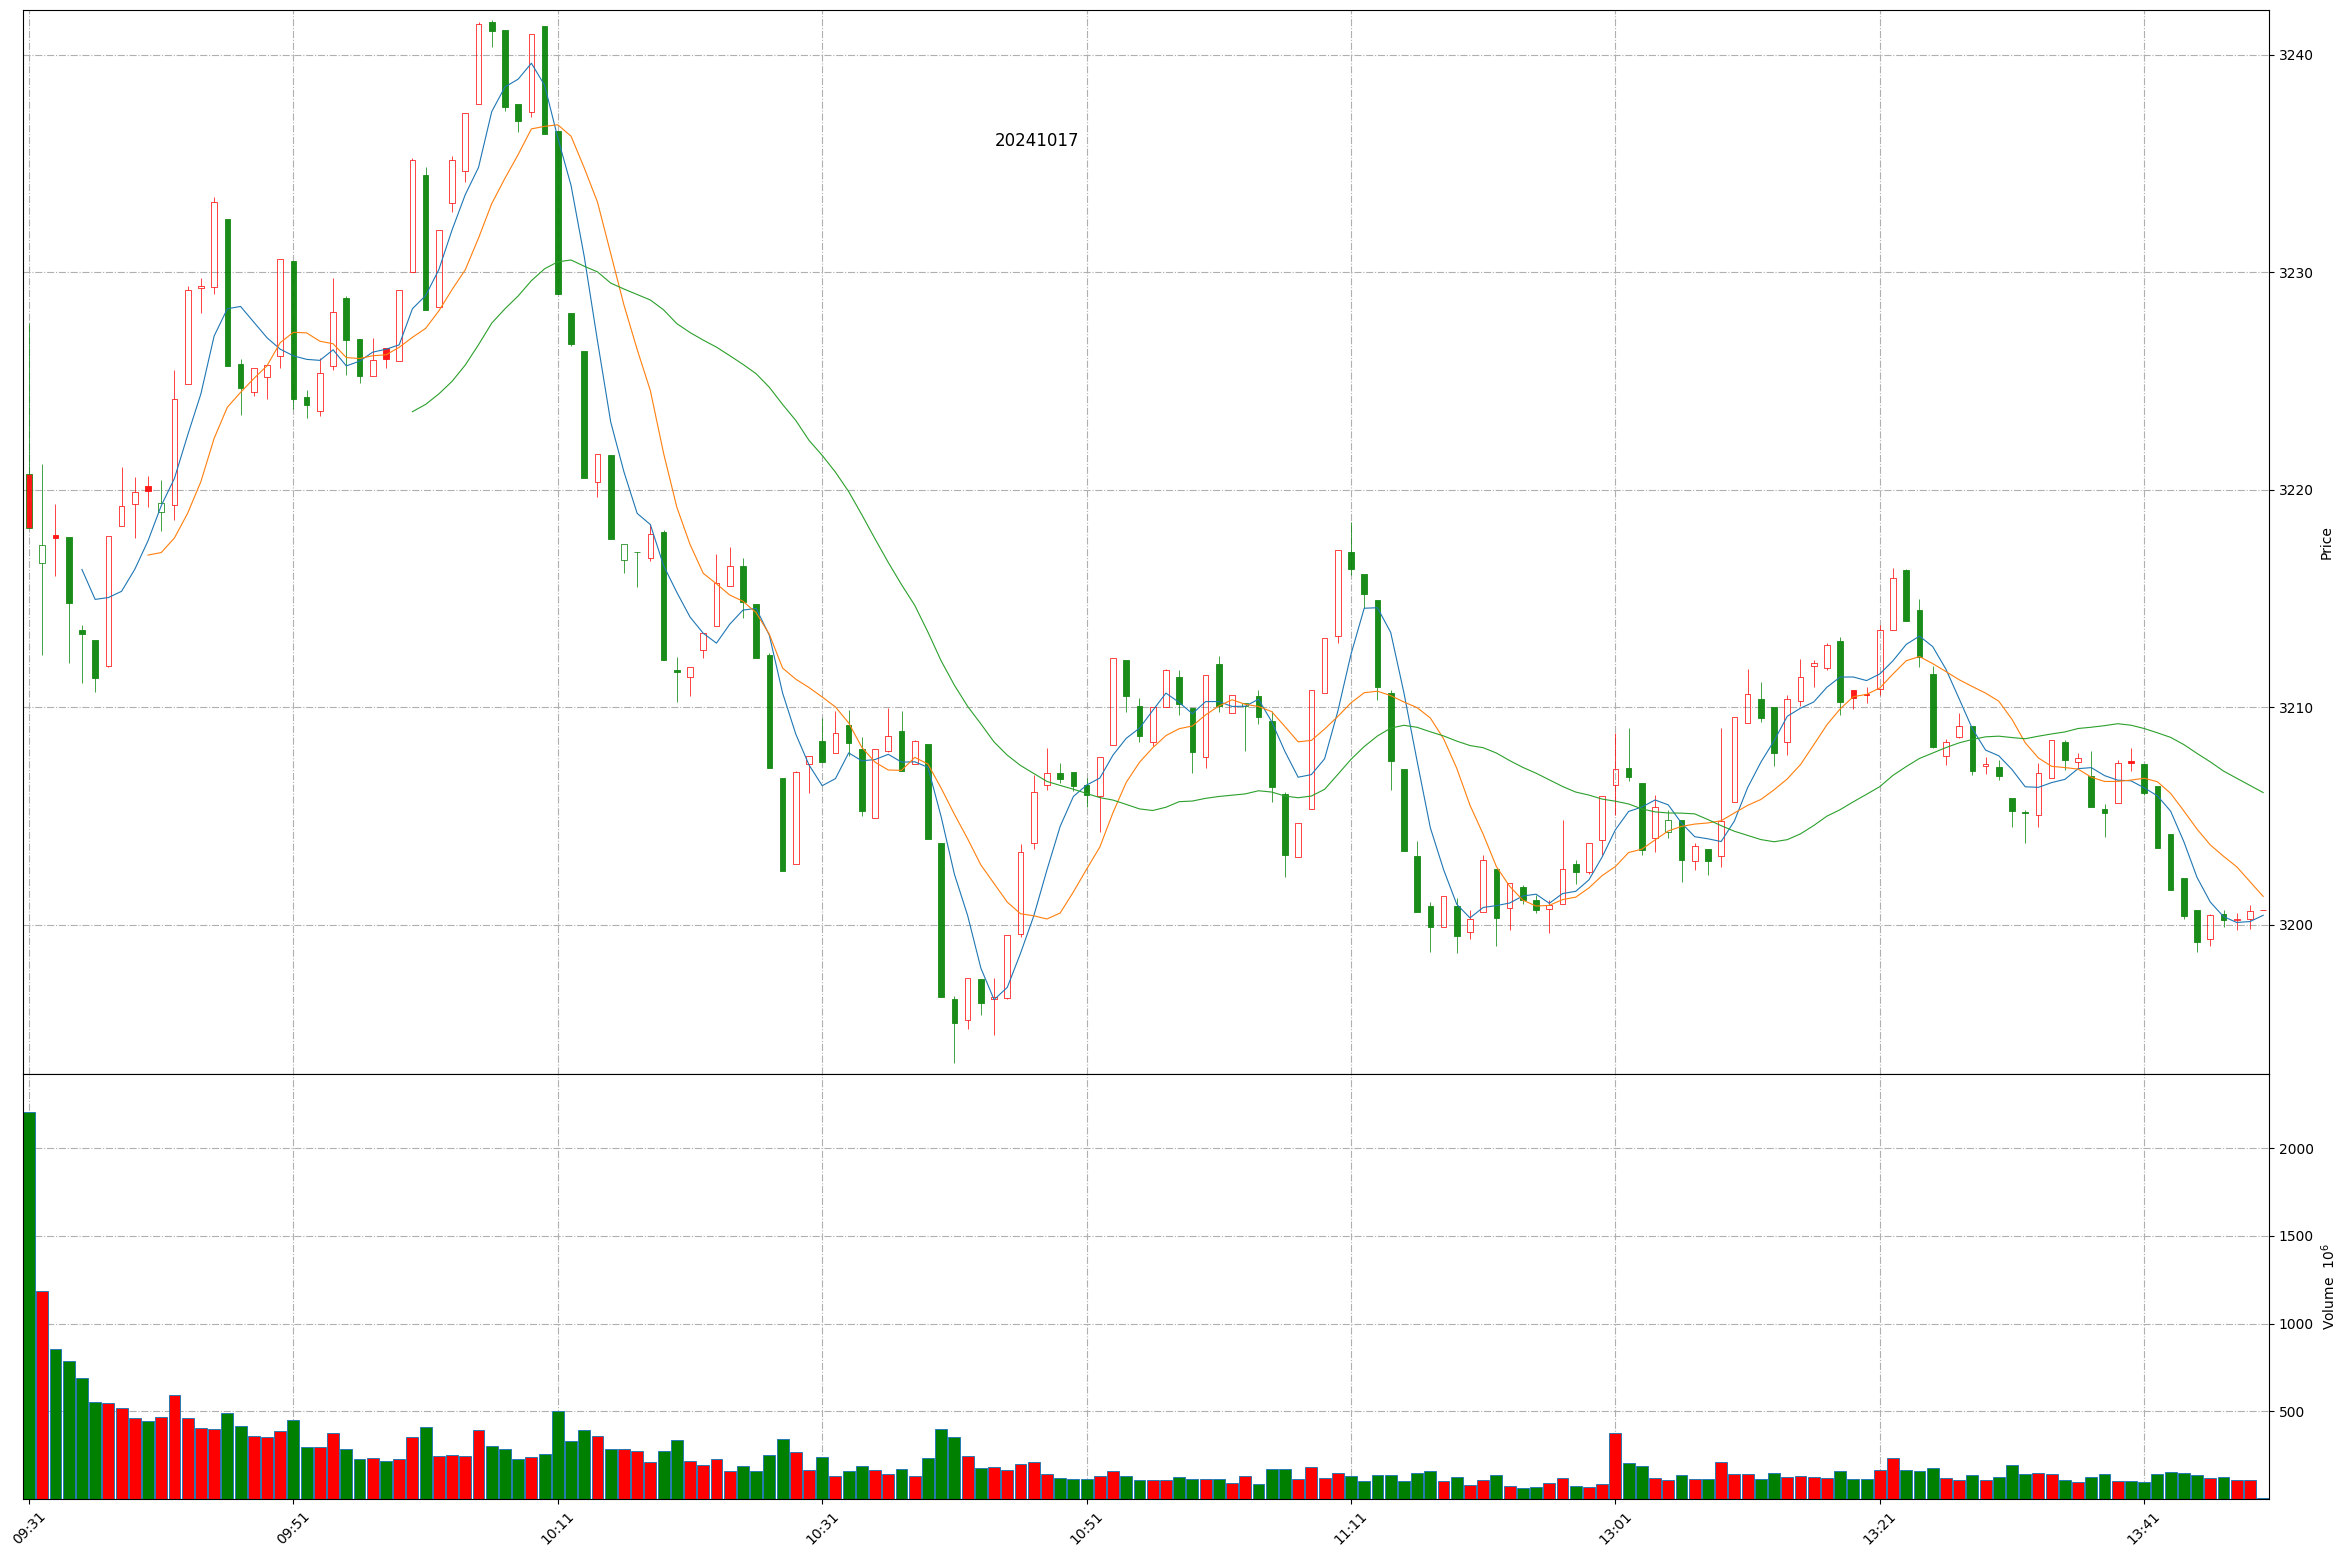
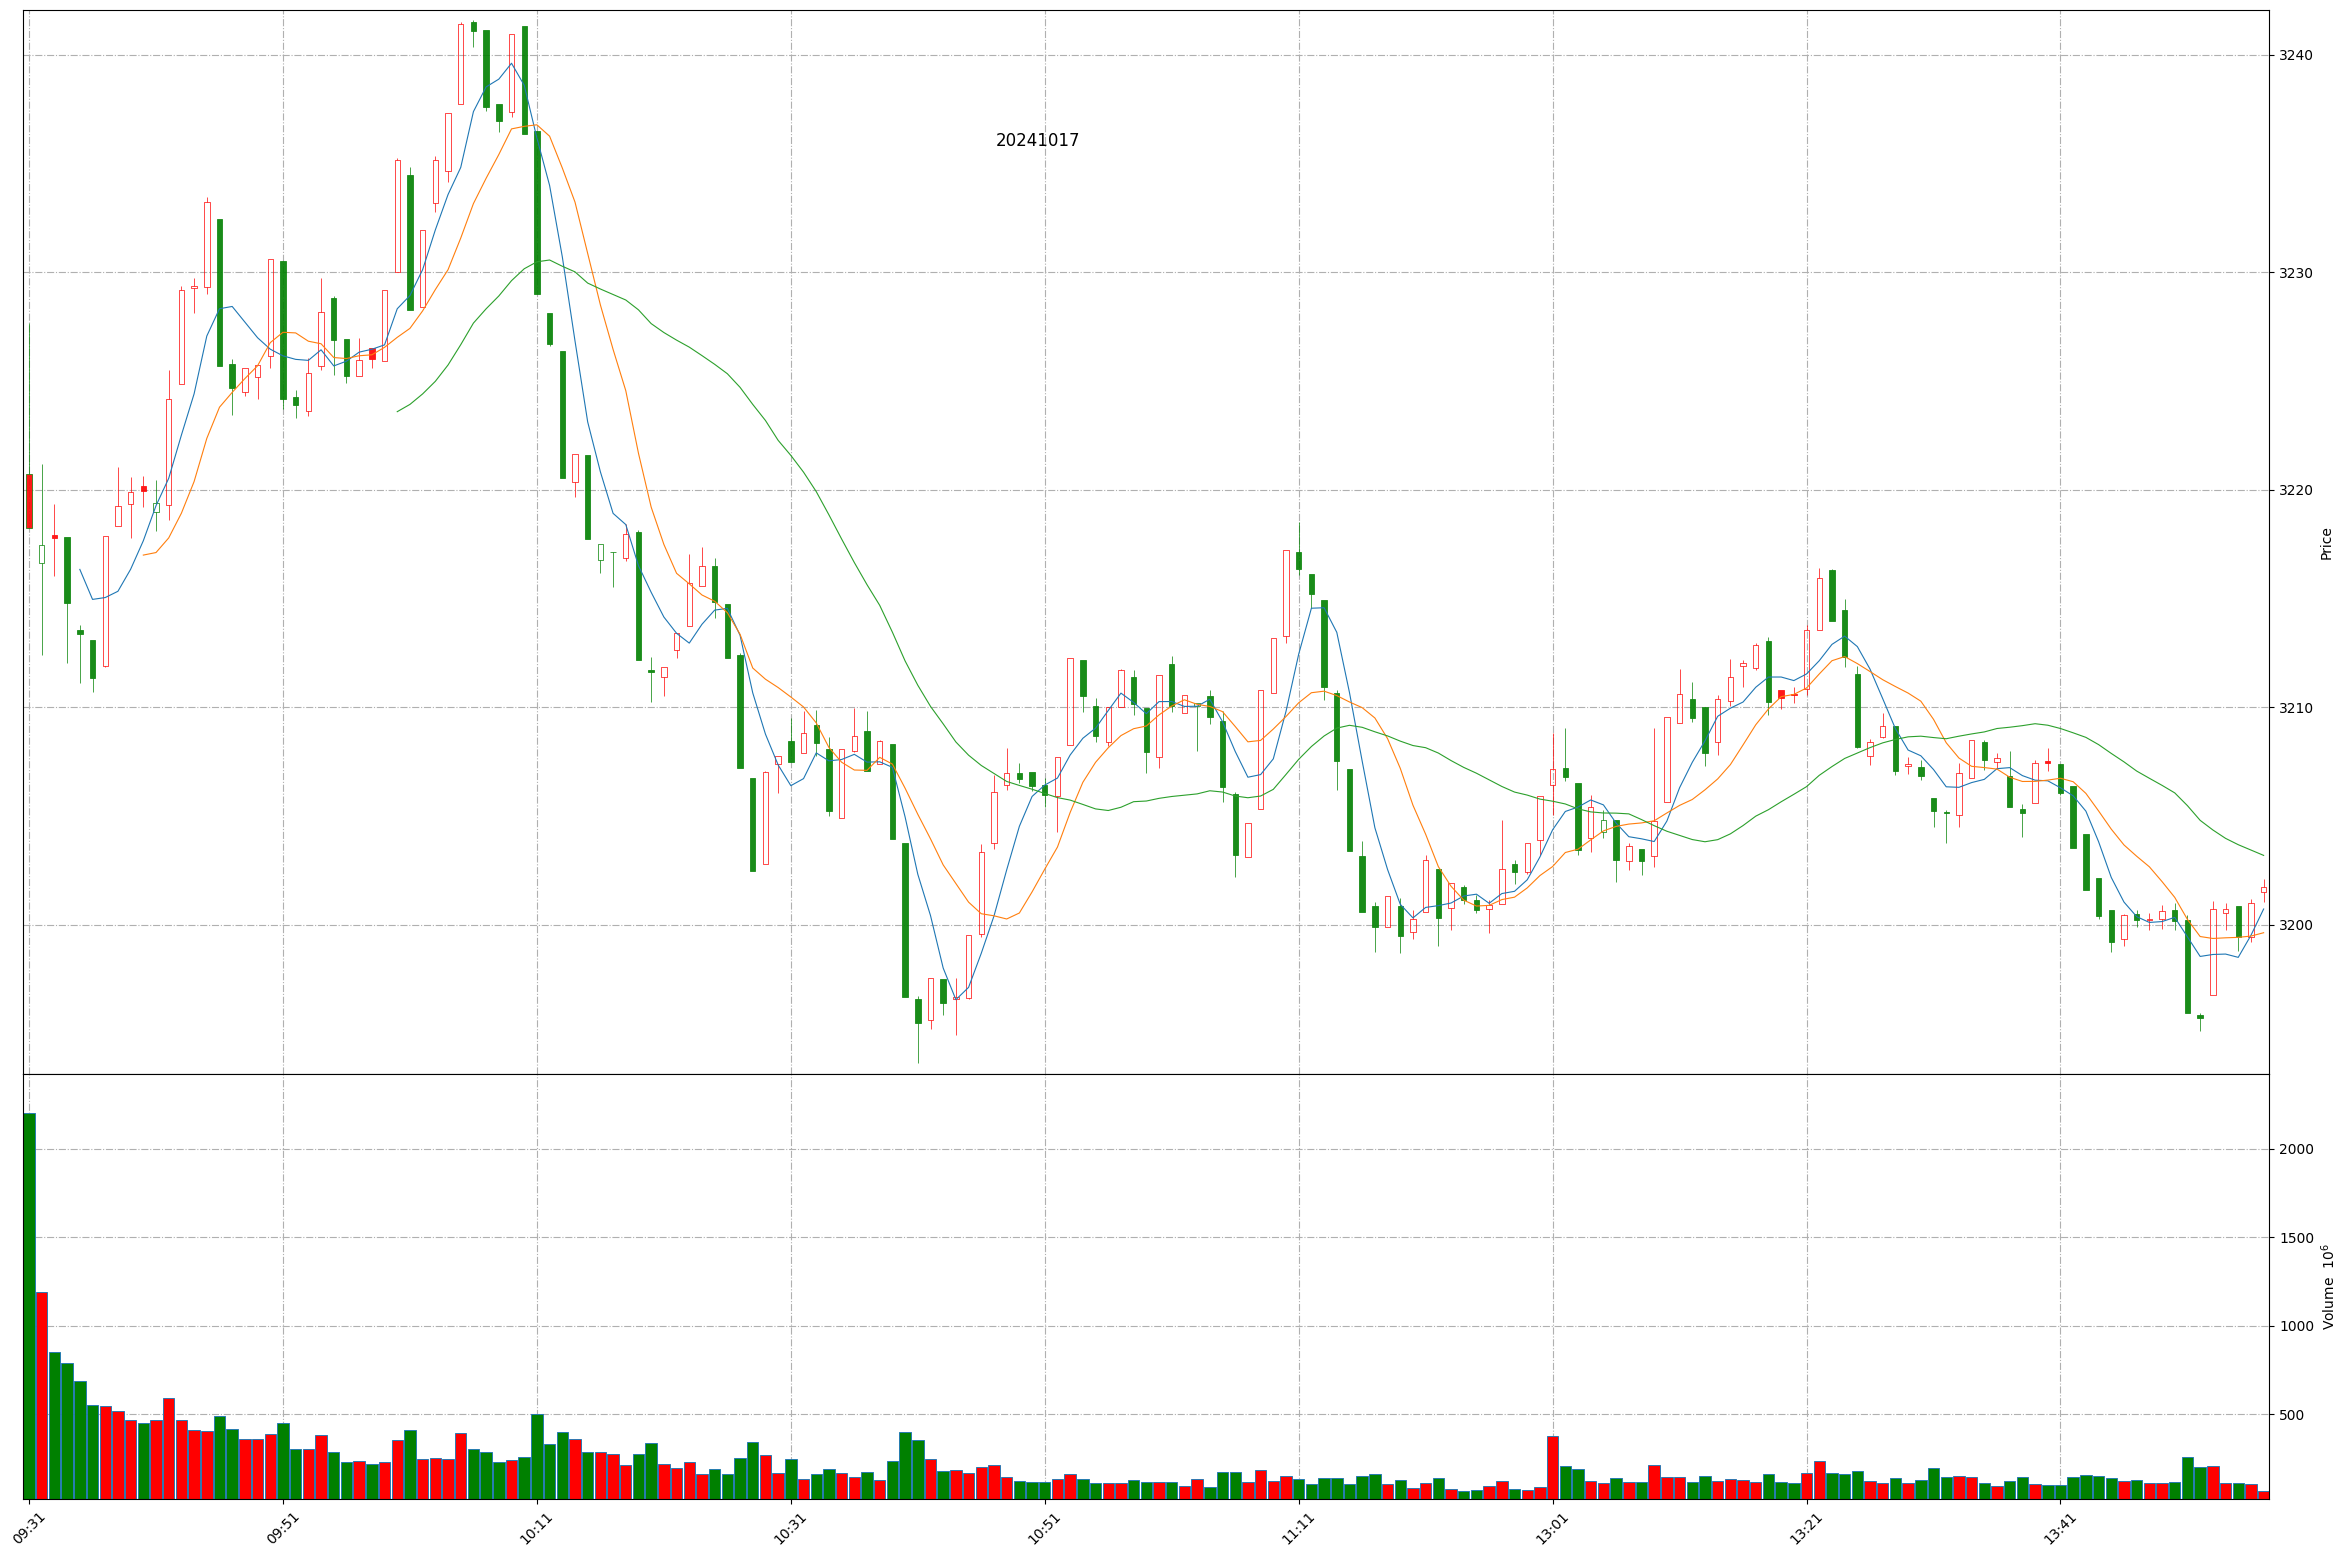
Github action update at 2024-10-17 13:56:55.

diff --git a/README.md b/README.md
@@ -1,11 +1,11 @@
 
 # Daily-A-share-market-quotes 每日 A 股指数（5min 更新）- 20241017
 
-### 上证指数 20241017 13:49
+### 上证指数 20241017 13:56
 ![](./fig/2024/10/20241017-sh000001.png)
 
-### 深证成指 20241017 13:49
+### 深证成指 20241017 13:56
 ![](./fig/2024/10/20241017-sz399001.png)
 
-### 北证50 20241017 13:49
+### 北证50 20241017 13:56
 ![](./fig/2024/10/20241017-bj899050.png)
